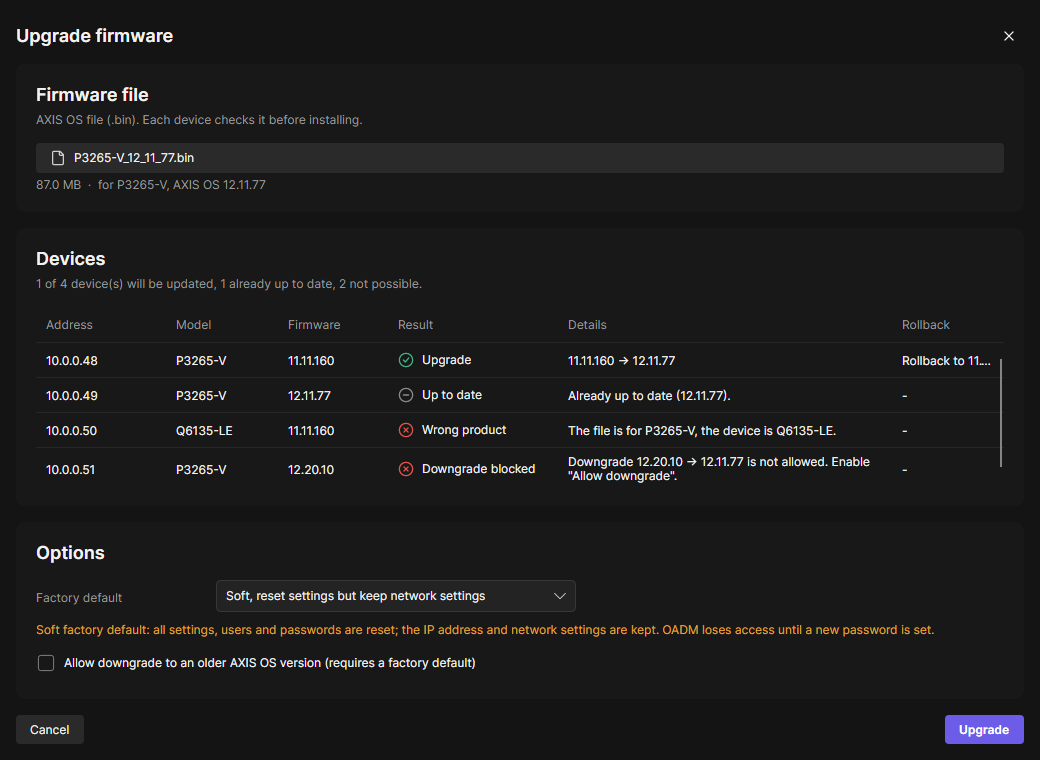
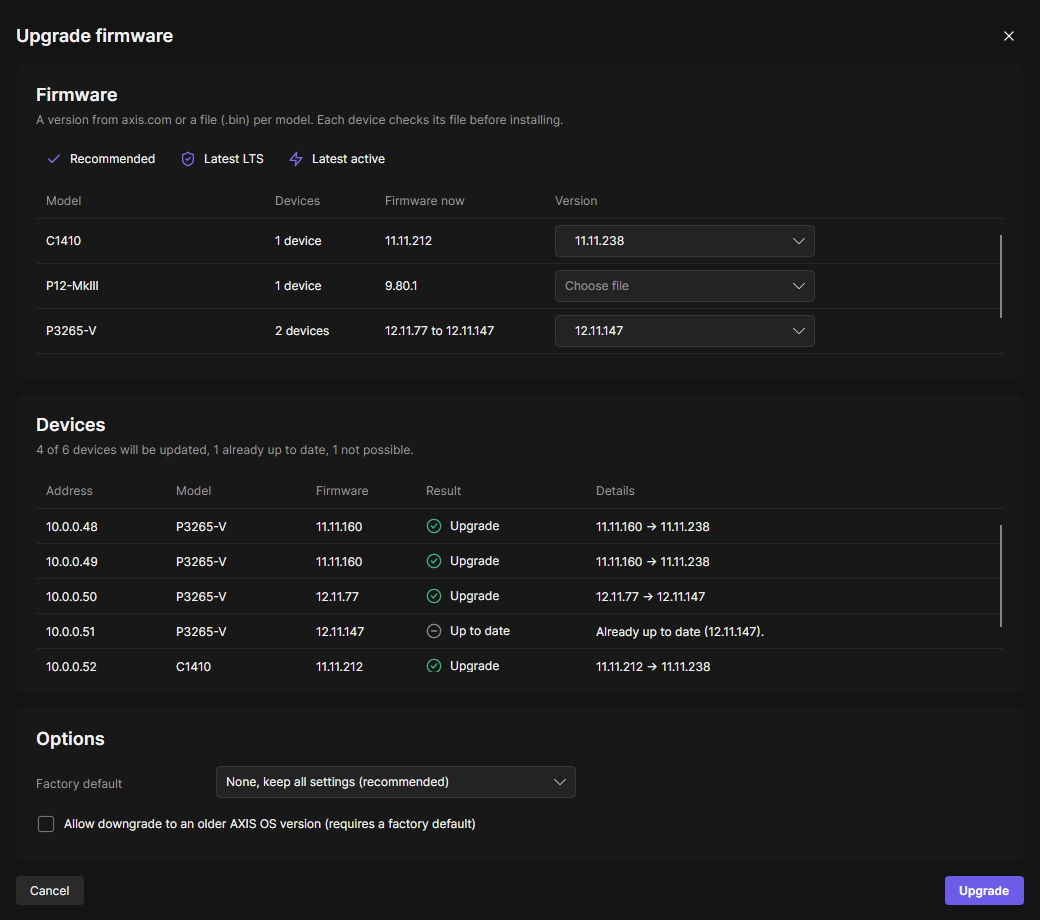
docs(firmware): Firmware online built (README, bundled plugins, user doc, changelog)

diff --git a/plugins/Oadm.Plugins.Firmware/README.md b/plugins/Oadm.Plugins.Firmware/README.md
@@ -151,10 +151,10 @@ ones were allowed report `SignatureStatus="Unknown"`; Axis applications `Signed`
 
 ## Dialog
 
-Choose one local `.bin` or several (one per model); the dialog shows name, size and, when recognized, product and AXIS OS
-version (several: "3 files" and each product with its version). A device without a file for its model shows "No file"
-("No file for this model."). Two files for one product are refused at the file row ("Two files are for P3265-V. Choose
-one file per model.").
+The Firmware table has one row per model and AXIS OS major of the selected devices: a version from axis.com or **Choose
+file** (a local `.bin` for that row; details in "Firmware online"). A device without a file for its model shows "No file"
+("No file for this model."). Two files for one product are refused below the field of their row ("Two files are for
+P3265-V. Choose one file per model."), like a refused file (not a `.bin`, smaller than 1 MB).
 
 Table of the selected devices: Address, Model, Firmware, Result (with tooltip), Details. The Firmware column is refreshed
 by the status query: read for the first 50 devices when the dialog opens, for other rows when the grid shows them, at
@@ -165,18 +165,27 @@ least one device would install. The dialog narrows the devices (`ShowForDevicesA
 that install a file, none for devices already up to date, without a file for their model or refused (Wrong product,
 Downgrade blocked). It uploads the files with `ITaskDialogContext.UploadAsync` (only those a device installs, one after
 the other, one progress bar, cancellable) and returns `{"fileId","fileName","factoryDefaultMode","allowDowngrade"}`,
-with several files also `"files":[{"fileId","fileName"}]`.
+with several files also `"files":[{"fileId","fileName"}]`, with versions from axis.com also `"online":[...]`.
 
-## Firmware online (spec, not built)
+## Firmware online
 
-Decisions of 2026-11-02 (a clean-room build; the version parked on 2026-10-29 is not reused). Each model of the selection
+Status: built 2026-11-02, not verified with a real MyAxis account (the host's sign-in and downloads are built in parallel;
+the plugin is tested against fakes and recorded listing pages). Decisions of 2026-11-02 (a clean-room build; the version
+parked on 2026-10-29 is not reused). Each model of the selection
 gets a version from axis.com or a chosen file; the server downloads the versions with the MyAxis sign-in of the user who
 starts the run ([docs/spec/myaxis.md](../../docs/spec/myaxis.md)).
 
+- **Code.** `Shared/OnlineListing` (the listing rows, sizes, version folders, `ver.txt`), `Shared/OnlineFirmware` (model
+  match, tracks, the three selection rules, the texts, the query contracts), `FirmwareCompatibility.FindOnline` and
+  `ChooseWithOnline` (an online version or a chosen file per device; dialog and server), `Online/AxisSite` (HTTP to the
+  listings only: `www.axis.com`, paths below `/ftp/pub_soft/`, never a .bin, no cookies, no redirects, 15 s and 8 MB per
+  page; a reviewed user of the banned network APIs), `Online/OnlineFirmwareLookup` (the queries), the client's
+  `FirmwareModelRow`.
 - **Where.** The public listings `https://www.axis.com/ftp/pub_soft/MPQT/` (cameras) and `.../PACS/` (audio, access
   control, intercoms, I/O, switches; a product in both is taken from MPQT): one folder per product, in it one folder per
   version (`12_11_147/`) and `latest/` (the newest .bin as `<product>.bin` plus `ver.txt` with its version). Each listing
-  is an HTML table, one row per entry: icon, name, date, size ("120.7M") and SHA-256. Version folders are two to five
+  is an HTML table, one row per entry: icon, name, date, size ("120.7M", units of 1,024: "3.1M" is 3,222,833 bytes) and
+  SHA-256. A missing page answers 307 to a "Page not found" page (no redirect is followed: not there). Version folders are two to five
   numbers (`10_12_356_2`); folders with a suffix (`10_12_212_TTA`, special builds) are skipped.
 - **Model match.** The device's model matches a product folder only exactly after normalizing both: lower case, only
   a-z and 0-9, without "AXIS " (`P1455-LE` never takes `P1455-LE-3` or `P3265-LVE_9_mm`). Not every model is listed
@@ -186,15 +195,19 @@ starts the run ([docs/spec/myaxis.md](../../docs/spec/myaxis.md)).
   only when that minor is one (`AxisOsUpgradePath.LtsTracks`: 6.50, 8.40, 9.80, 10.12, 11.11, 12.11). A model whose
   newest major ends on an LTS minor has no active track (C1410 on 11.11). A version only in `latest/` (named by
   `ver.txt`, P1455-LE 11.11.212) counts with the `latest/` file. Latest is what `ver.txt` names, else the version with
-  the .bin of `latest/`, else the highest. Versions without a .bin, a SHA-256 or a size of at least 1 MB are left out.
+  the .bin of `latest/`, else the highest. Versions without a .bin, a SHA-256 or a size of at least 1 MB are left out (the next version of the track is read
+  instead). The .bin of a folder is `<product>_<version>.bin` (`<product>.bin` in `latest/`), else its only .bin. A
+  `ver.txt` that is no bare version (a "Page not found" page) counts as none. An older major whose last minor is no LTS
+  is named "AXIS OS 10" (`OnlineTrackKind.Old`).
 - **Lookup.** The server, query `online` (read only, public pages, no sign-in needed). Only the models of the selected
   devices, never the whole site: both root listings, then per model its folder, `latest/`, `ver.txt` and the newest
-  folder of each track; at most 8 models at a time, no cache (the site changes during the day). Each page 0.1 to 0.15 s;
+  folder of each track; at most 8 models at a time (`MaxParallelModels`), at most 50 models per query (the dialog asks in parts of 50 and
+  fills the rows part by part), no cache (the site changes during the day). Each page 0.1 to 0.15 s;
   measured 2026-10-29: 5 models 1 s, 50 models 3 s, 100 models 5 s. The answer lists every version folder of each track
   (newest first); the size and SHA-256 of an older version are read when it is chosen (query `onlineVersion`). No answer
   from axis.com: "axis.com could not be reached." above the table, the rows keep Choose file.
 - **Track names** as on axis.com: the active track "AXIS OS 13", "LTS 2026 · 12.11", "LTS 2024 · 11.11", "LTS 2022 ·
-  10.12", "PSS 9.80", "PSS 8.40", "PSS 6.50" (`AxisOsUpgradePath.LtsTracks` gets the LTS year).
+  10.12", "PSS 9.80", "PSS 8.40", "PSS 6.50" (`AxisOsUpgradePath.LtsTracks` carries the LTS year, `LtsName`).
 - **Downloads need a login.** Every .bin below `/ftp/pub_soft/` answers `302` to `/my-axis/login`; the listings and
   `ver.txt` are public. OADM downloads with the MyAxis sign-in of the user who starts the run, through the host
   (`ctx.AxisDownloads`); the plugin never sees the session.
@@ -207,16 +220,32 @@ starts the run ([docs/spec/myaxis.md](../../docs/spec/myaxis.md)).
   - **Latest LTS**: the newest LTS track of the model.
   - **Latest active**: the model's active track; a model without one (it ends on an LTS) gets its newest version.
   A row whose devices already run the chosen version shows "Up to date"; a row the model is not listed for (P12-MkIII)
-  offers Choose file only. Signed in, the dialog opens with Recommended; not signed in, every row starts on Choose
+  offers Choose file only. Rows are keyed by model and AXIS OS major (the track of the devices: 11.8 and 11.11 are both
+  the 11 row); a device whose status shows another major moves to that row (choices are kept per row). Recommended for a
+  major the model no longer lists (and for devices of unknown version): its newest LTS; Latest LTS of a model without an
+  LTS: its newest version. An older version (no size and SHA-256 in the lookup) is checked with `onlineVersion` when
+  chosen; gone: "AXIS OS 11.11.192 is no longer on axis.com." below its field. While the lookup runs, a progress line
+  shows "Reading the versions on axis.com, 40 of 120 models" and Upgrade waits; signing in later sets Recommended on the
+  rows without a choice. A refused choice shows below its field through the row's `INotifyDataErrorInfo`. Signed in, the dialog opens with Recommended; not signed in, every row starts on Choose
   file, the versions show for information, choosing one says "Sign in to MyAxis to download from axis.com." with
   **Sign in to MyAxis** (`ITaskDialogContext.MyAxis.SignInAsync`). The decision table, the upgrade path advice and the
   apps check apply unchanged: an online version is a file with a known product and version.
 - **Payload.** Per row either `fileId` (uploaded as today, only chosen files) or `online` (`product`, `version`); the
-  server reads that version's folder itself for the URL, size and SHA-256 and never takes them from the client. The run
-  is refused with "Sign in to MyAxis to download from axis.com." when a row is online and the user has no session.
+  server reads that version's folder itself for the URL, size and SHA-256 and never takes them from the client. Built:
+  `"online":[{"source":"MPQT","product":"P3265-V","version":"12.11.147","fromMajor":11}]` next to the old file fields
+  (`fileId`, `fileName`, `files`, unchanged); a device takes the entry of its product and AXIS OS major
+  (`FindOnline`, else the entry of unknown version), else a chosen file as before (with online entries a single file is
+  only for its own product). Source and product are checked (`MPQT` or `PACS`; letters, digits, "-", "_"); the server
+  builds the URL from the listing it read. The run
+  is refused with "Sign in to MyAxis to download from axis.com." when a row is online and the user has no session
+  (`ctx.AxisDownloads` null or `HasSession` false; checked first in Check compatibility, before any device request).
 - **Download firmware** (task step before Upload firmware, Skipped "A file was chosen." for a chosen file): the host's
   `DownloadAsync` with progress ("68 of 225 MB", the step's percent); tasks of the same file share one download, a second
-  run within 7 days takes it from the cache (detail "From the cache, checksum matches axis.com"). Sites: the server sends
+  run within 7 days takes it from the cache (detail "From the cache, checksum matches axis.com"; else "225 MB from
+  axis.com, checksum matches"). It runs after Validate file (the decision table first: nothing is downloaded for a device
+  that is up to date or refused) and before Read firmware status. An `AxisDownloadException` ends the task with its
+  message (ending with "Nothing was changed."); the file is uploaded with `AxisDownloadedFile.OpenRead` and the handle is
+  disposed after the upload, also when it fails. Sites: the server sends
   it through the node like a chosen file.
 
 ## Task steps
@@ -230,7 +259,8 @@ Pending).
 |---|---|
 | Check compatibility | status OK, fresh `getApiList` + `Require("fwmgr", "1.0")`; detail "fwmgr 1.10" |
 | Read device info | `basicdeviceinfo`; detail "AXIS P3265-V, AXIS OS 11.11.160" |
-| Validate file | uploaded files present, the file for the device (`Choose`), name and size checks (never the content), decision table. No file for this model or already up to date: Warning and all later steps Skipped |
+| Validate file | uploaded files present, the file for the device (`ChooseWithOnline`: its version from axis.com, read again from the listing, else `Choose`), name and size checks (never the content), decision table. No file for this model or already up to date: Warning and all later steps Skipped |
+| Download firmware | a version from axis.com: the host's download with the user's MyAxis sign-in ("68 of 225 MB"); Skipped "A file was chosen." |
 | Read firmware status | fwmgr `status`: no uncommitted previous upgrade |
 | Upload firmware | `ctx.Files.OpenReadAsync` streamed in 80 KB chunks (`FirmwareStreamContent`), Content-Length set, never buffered; reopened if the HTTP stack resends after a Digest challenge; `Expect: 100-continue` so the 401 comes before the body. Progress in bytes ("12 of 80 MB"). Request timeout 20 min (`VapixRequestOptions.Timeout`). Settings kept: `autoCommit=never`, `autoRollback=30` (minutes, longer than the 15 min wait), so the device reverts by itself if OADM never verifies. Factory default: `autoCommit=started`, `autoRollback=never`, because the reset removes OADM's credentials |
 | Install firmware | anonymous `basicdeviceinfo getAllUnrestrictedProperties` every 5 s (works after a factory default) until the device goes offline (or already answers with another version) |
@@ -258,6 +288,12 @@ Password not set); the full refresh after the task covers it partly.
 `inactiveVersion`, `isCommitted`, `pendingCommit`, `timeToRollback`, `lastUpgradeAt`, `resetSource`, `model`,
 `architecture`). Unsupported devices return `{"supported":false,...}` without calling fwmgr.
 
+`online` (`{"models":[...]}`, at most 50) and `onlineVersion` (`{"source","product","version"}`): public pages of axis.com
+only, never the queried device (the host needs one device of the user's view to run a query; the dialog uses its first
+selected device with status OK). `online` answers `OnlineLookupResult` (`unreachable` when axis.com did not answer, per
+model `failed` when one of its pages did not); `onlineVersion` answers `OnlineFileInfo` or null, and fails with
+"axis.com could not be reached.". Same permission as `status` (the host's query rule).
+
 ## Permissions
 
 Keys `task:oadm.firmware:upgrade` (every run), `:factoryDefault` (a soft or hard factory default) and `:downgrade`
@@ -274,7 +310,11 @@ server `DeviceGroups/CanaryTests`.
 
 `tests/Oadm.Plugins.Firmware.Tests`: decision table, file checks, upgrade path, the fwmgr client from recorded fixtures,
 the task with a fake device (steps, rollback, commit retries, the boot wait on a fake clock, several files), the dialog
-view model (files per model, a device without a file, two files for one model) and scale tests.
+view model (files per model, a device without a file, two files for one model) and scale tests. Firmware
+online: `OnlineListingTests` and `OnlineLookupTests` from the recorded pages in `Fixtures/Online` (2026-11-02, trimmed
+roots; `FakeAxisSite` makes up other version folders), `OnlineRulesTests` (match, tracks, the three rules),
+`OnlineTaskTests` (a test-local `FakeAxisDownloads`), `FirmwareOnlineDialogTests` (the dialog against the plugin's real
+queries), a Perf test with 100,000 devices and headless screenshots (signed in with Recommended, signed out).
 
 Never run against hardware: upload, commit, any factory default. Still to verify on a test device: numeric
 `autoRollback` as a JSON string (`"30"`), the exact answer timing of `upgrade` (before or after flashing), anonymous

diff --git a/docs/spec/bundled-plugins.md b/docs/spec/bundled-plugins.md
@@ -54,9 +54,12 @@ the version and commits it.
 - AXIS OS 13 and later: a device with an installed application that is unsigned or does not declare the target version
   (bundled ones excepted, README "Installed applications") is "Apps block it" and gets no task; the task checks again
   before the upload and refuses with "Nothing was changed.".
-- Firmware online (spec, not built; README "Firmware online"): per model a version from axis.com (Recommended = newest
-  on its own track, Latest LTS, Latest active) or a chosen file; the server downloads with the starting user's MyAxis
-  sign-in ([myaxis.md](myaxis.md)), checks the SHA-256 of axis.com and keeps the file 7 days (at most 5 GB).
+- Firmware online (built, not verified with a real MyAxis account; README "Firmware online"): one row per model and
+  AXIS OS major with a version from axis.com (Recommended = newest on its own track, Latest LTS, Latest active) or a
+  chosen file; the lookup reads only the selected models' public listings (query `online`, 8 models at a time, no
+  cache); the server reads URL, size and SHA-256 from axis.com itself and downloads with the starting user's MyAxis
+  sign-in ([myaxis.md](myaxis.md), step "Download firmware"; refused without one, before any device request); the
+  decision table, upgrade path and apps check apply unchanged.
 
 ## Network settings and Assign IP address
 

diff --git a/CHANGELOG.md b/CHANGELOG.md
@@ -9,6 +9,7 @@ Each entry is one short line in plain words (what the user gets, not how); no ne
 
 ### Added
 
+- Upgrade firmware: choose a version from axis.com per model (Recommended, Latest LTS, Latest active); the server downloads it with your MyAxis sign-in.
 - Devices list: Vulnerabilities in the context menu lists the CVEs of the selected devices with the full description and a link to the Axis advisory.
 
 ## [4.8.0] - 2026-11-01
